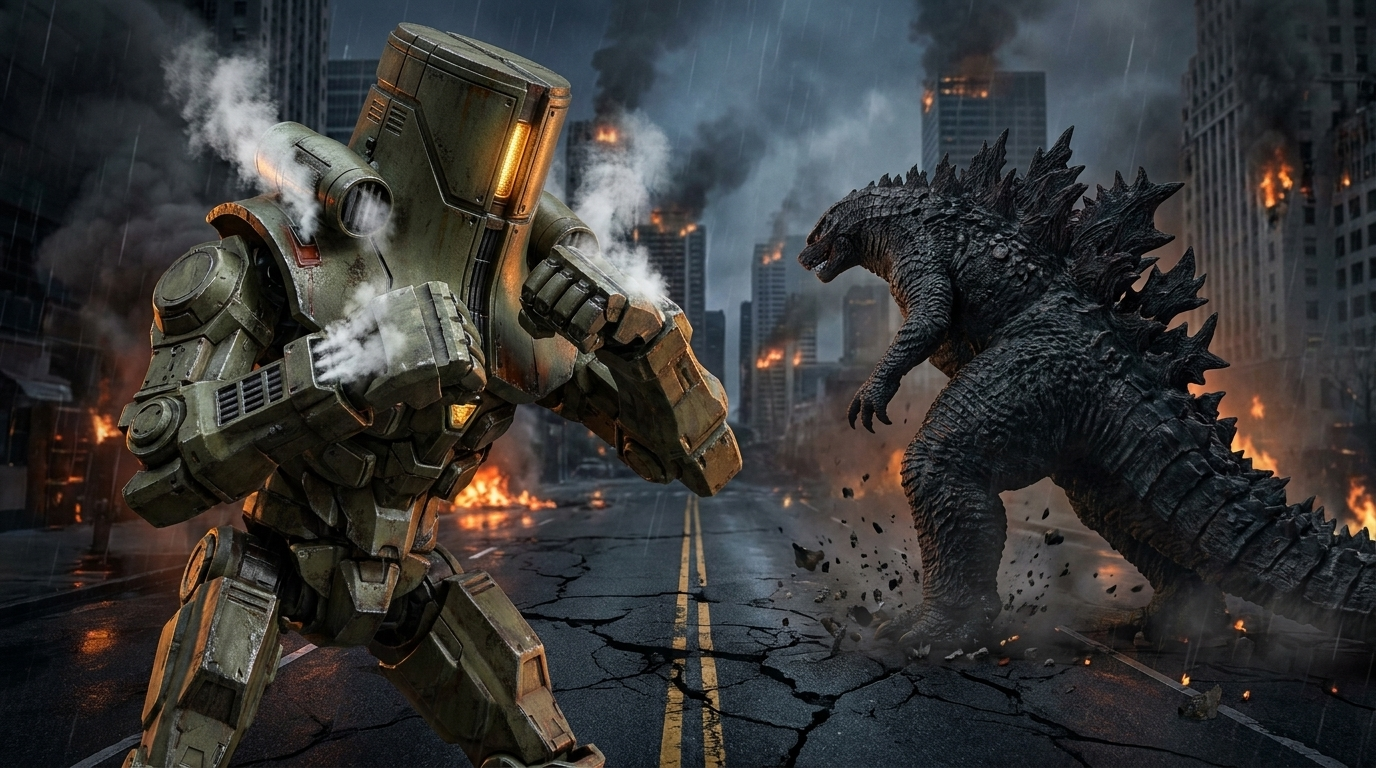
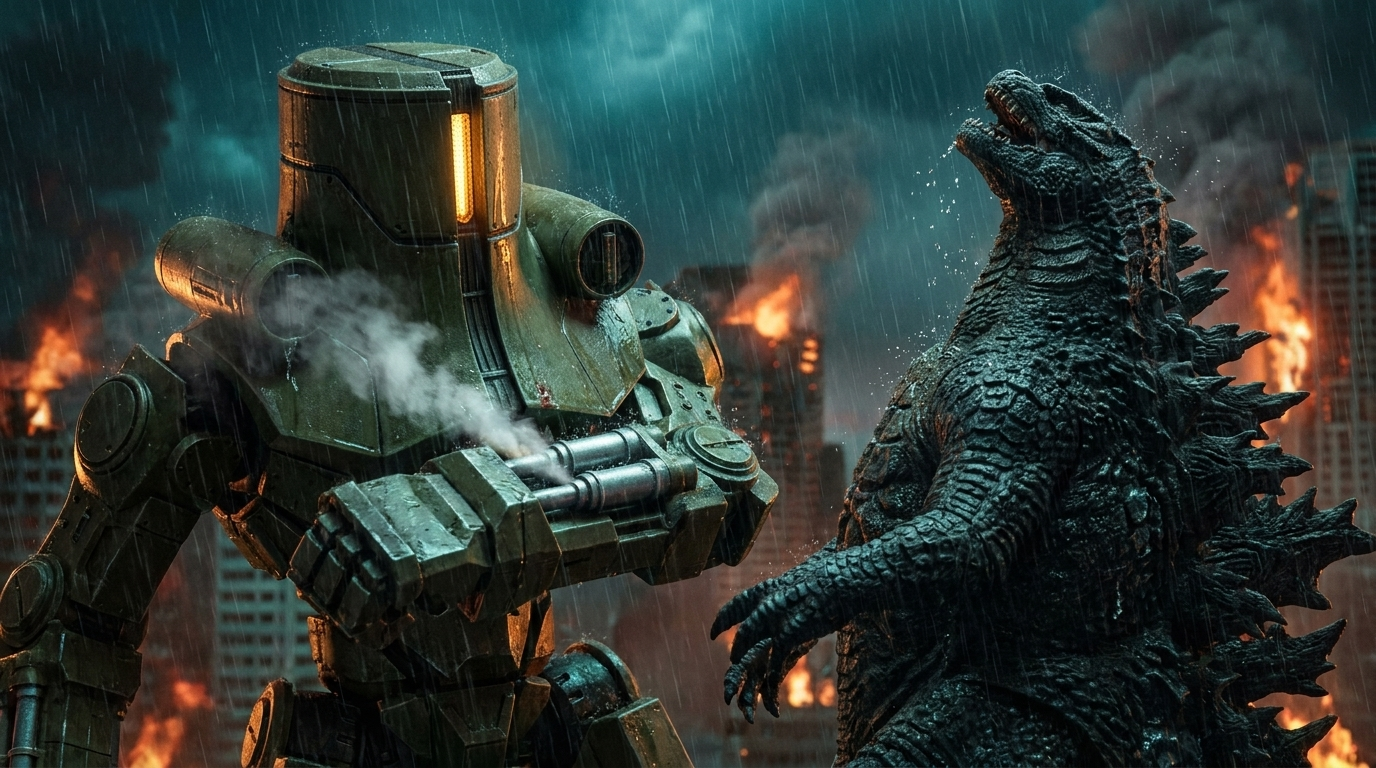
Fix shot_16 medium close-up retracting left piston forearm with Godzilla staggered

diff --git a/projects/cherno-alpha-vs-godzilla/PROGRESS.md b/projects/cherno-alpha-vs-godzilla/PROGRESS.md
@@ -21,7 +21,7 @@ Kết thúc phiên: `media-push` rồi `git add -A && git commit && git push` (q
 - **Slug:** `cherno-alpha-vs-godzilla` — thư mục `projects/cherno-alpha-vs-godzilla/` (KHÔNG `init` dự án mới)
 - **Flow:** https://flow.google.com/project/eba75017-1af5-48e6-b95b-1b0d6294c221
 - **Ngôn ngữ / khung:** en / 16:9; giọng dẫn `-`
-- **Cập nhật lần cuối:** 2026-10-22T20:20:06 trên máy **DESKTOP-HUP72C4** (lệnh `storyboard`)
+- **Cập nhật lần cuối:** 2026-10-22T20:56:57 trên máy **DESKTOP-HUP72C4** (lệnh `storyboard`)
 - **Storyboard:** chưa duyệt
 
 ## ▶ Bước tiếp theo: 4. 🧑 Chờ người dùng duyệt storyboard
@@ -152,6 +152,11 @@ python scripts/studio_helper.py storyboard-approve --project cherno-alpha-vs-god
 
 | Lúc | Máy | Lệnh | Kết quả |
 |---|---|---|---|
+| 10-22 20:56 | DESKTOP-HUP72C4 | `storyboard ` | ok |
+| 10-22 20:55 | DESKTOP-HUP72C4 | `flow-harvest --kind image --shots shot_16 --wait` | ok |
+| 10-22 20:54 | DESKTOP-HUP72C4 | `flow-generate --kind frames --shots shot_16 --count 2` | ok |
+| 10-22 20:52 | DESKTOP-HUP72C4 | `flow-harvest --kind image --shots shot_16 --wait` | ok |
+| 10-22 20:50 | DESKTOP-HUP72C4 | `flow-generate --kind frames --shots shot_16 --count 2` | ok |
 | 10-22 20:20 | DESKTOP-HUP72C4 | `storyboard ` | ok |
 | 10-22 20:19 | DESKTOP-HUP72C4 | `flow-harvest --kind image --shots shot_16 --wait` | ok |
 | 10-22 20:17 | DESKTOP-HUP72C4 | `flow-generate --kind frames --shots shot_16 --count 2` | ok |
@@ -162,8 +167,3 @@ python scripts/studio_helper.py storyboard-approve --project cherno-alpha-vs-god
 | 10-22 18:00 | DESKTOP-HUP72C4 | `storyboard ` | ok |
 | 10-22 17:59 | DESKTOP-HUP72C4 | `storyboard ` | ok |
 | 10-22 17:58 | DESKTOP-HUP72C4 | `flow-harvest --kind image --shots shot_11,shot_12 --wait` | ok |
-| 10-22 17:56 | DESKTOP-HUP72C4 | `flow-generate --kind frames --shots shot_11,shot_12 --count 2` | ok |
-| 10-22 17:54 | DESKTOP-HUP72C4 | `flow-harvest --kind image --shots shot_12 --wait` | ok |
-| 10-22 17:53 | DESKTOP-HUP72C4 | `flow-harvest --kind image --shots shot_09,shot_10,shot_11,shot_12 --wait` | ok |
-| 10-22 17:49 | DESKTOP-HUP72C4 | `flow-generate --kind frames --shots shot_09,shot_10,shot_11,shot_12 --count 2` | ok |
-| 10-22 17:27 | DESKTOP-HUP72C4 | `storyboard ` | ok |
